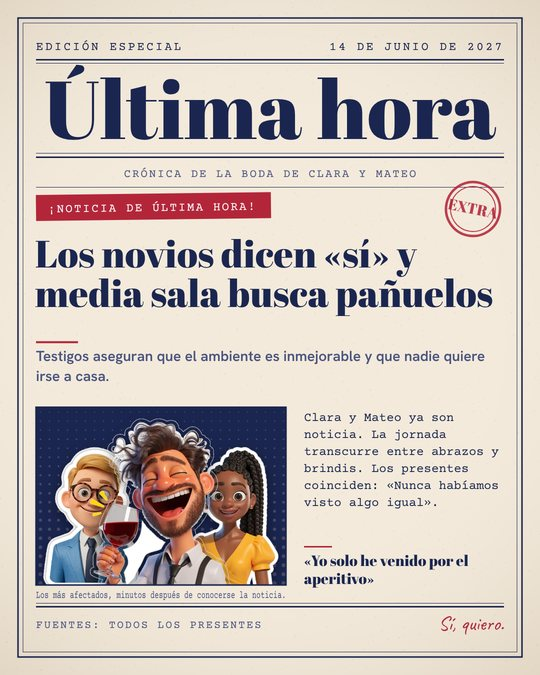
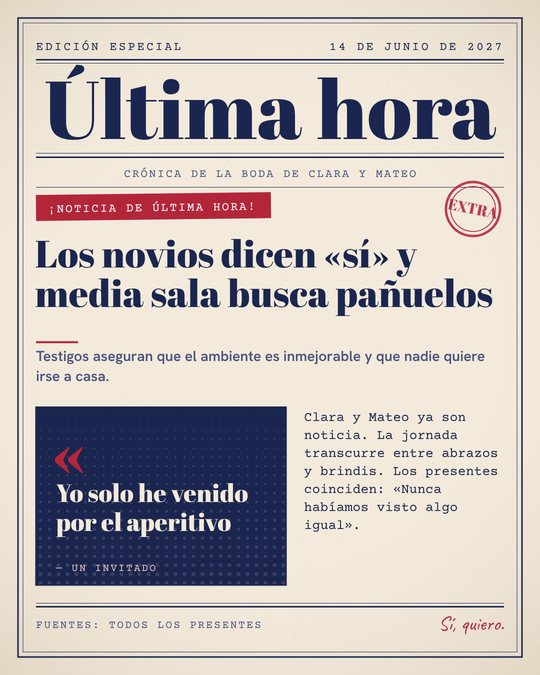
Última hora: foto subida por la pareja (dúo azul, local) y recuadro con cita; fuera los muñecos
Claude-Session: https://claude.ai/code/session_013gRG58urZyFX7HDixjDjsp

Changed region(s): [[0.0593, 0.6222, 0.5333, 0.9022], [0.563, 0.5911, 0.9185, 0.8711]]

diff --git a/guest-web/js/ultima-hora.js b/guest-web/js/ultima-hora.js
@@ -2,8 +2,7 @@
 (() => {
   const W = 1080, H = 1350;
   const C = { paper: '#f3eadb', paper2: '#e9dcc6', ink: '#1b2650', soft: '#4a5480', red: '#b3263a', blush: '#f0c4bc', deep: '#131b3b' };
-  const CAST = ['javi', 'lola', 'oscar', 'dani', 'carmen', 'marta', 'nuria', 'hugo'];
-  const IDEAS = [
+    const IDEAS = [
     'Los novios dicen «sí» y media sala busca pañuelos',
     'La tía Carmen ya baila y aún no han servido el aperitivo',
     'Hallan la barra libre: los invitados no se hacen responsables',
@@ -37,8 +36,7 @@
   }
 
   let variant = Math.floor(Math.random() * 9);
-  const imgs = {};
-  const load = (k) => imgs[k] || (imgs[k] = new Promise((ok) => { const m = new Image(); m.onload = () => ok(m); m.onerror = () => ok(null); m.src = `assets/quiz/${k}.webp`; }));
+  let photo = null;
   const fontsReady = () => document.fonts ? Promise.all(['110px "Abril Fatface"', '600 30px "Hanken Grotesk"', '400 26px "Courier Prime"', '400 30px "Caveat"'].map((x) => document.fonts.load(x).catch(() => 0))) : Promise.resolve();
 
   // Líneas por palabras; las palabras más largas que la caja se parten en seco.
@@ -60,7 +58,7 @@
   }
 
   async function draw() {
-    const [, a, b, c] = await Promise.all([fontsReady(), ...[0, 1, 2].map((i) => load(CAST[(variant + i * 3) % CAST.length]))]);
+    await fontsReady();
     const head = f.h.value.trim() || IDEAS[0];
     const names = f.n.value.trim(), date = f.f.value.trim();
     const sub = f.s.value.trim() || SUBS[variant % SUBS.length];
@@ -113,29 +111,43 @@
     g.fillStyle = C.red; g.fillRect(X, y - 14, 84, 4);
     g.fillStyle = C.soft; g.font = '600 29px "Hanken Grotesk"'; y = para(sub, X, y + 26, CW, subLH) + 6;
 
-    // foto + texto
-    const py = y + 6, ph = footerTop - py - 30, pw = 500;
-    g.save(); g.beginPath(); g.rect(X, py, pw, ph); g.clip();
-    g.fillStyle = C.ink; g.fillRect(X, py, pw, ph);
-    g.fillStyle = 'rgba(240,196,188,.22)';
-    for (let yy = py + 10; yy < py + ph; yy += 18) for (let xx = X + ((yy - py) / 18 % 2 ? 9 : 0); xx < X + pw; xx += 18) { const k = 1 + 3.2 * (yy - py) / ph; g.beginPath(); g.arc(xx, yy, k, 0, 7); g.fill(); }
-    const place = (m, cx, hgt) => { if (!m) return; const w = m.width * hgt / m.height; g.save(); g.shadowColor = 'rgba(0,0,0,.4)'; g.shadowBlur = 24; g.shadowOffsetY = 8; g.drawImage(m, cx - w / 2, py + ph - hgt + 8, w, hgt); g.restore(); };
-    place(a, X + pw * .22, Math.min(ph * .8, 330)); place(c, X + pw * .78, Math.min(ph * .8, 340)); place(b, X + pw * .5, Math.min(ph * .96, 400));
-    g.restore();
+    // foto (o recuadro con cita) + texto
+    const py = y + 6, ph = footerTop - py - 30, pw = 500, quote = QUOTES[variant % QUOTES.length];
+    if (photo) {
+      const o = document.createElement('canvas'); o.width = pw; o.height = ph; const og = o.getContext('2d');
+      const k = Math.max(pw / photo.width, ph / photo.height), dw = photo.width * k, dh = photo.height * k;
+      og.drawImage(photo, (pw - dw) / 2, (ph - dh) * .35, dw, dh); // encuadre algo alto: respeta las caras
+      const d = og.getImageData(0, 0, pw, ph), px = d.data;
+      const lo = [27, 38, 80], hi = [243, 234, 219];
+      for (let i = 0; i < px.length; i += 4) {
+        let l = (.299 * px[i] + .587 * px[i + 1] + .114 * px[i + 2]) / 255;
+        l = Math.min(1, Math.max(0, (l - .5) * 1.18 + .52));
+        px[i] = lo[0] + (hi[0] - lo[0]) * l; px[i + 1] = lo[1] + (hi[1] - lo[1]) * l; px[i + 2] = lo[2] + (hi[2] - lo[2]) * l; px[i + 3] = 255;
+      }
+      og.putImageData(d, 0, 0); g.drawImage(o, X, py);
+    } else {
+      g.fillStyle = C.ink; g.fillRect(X, py, pw, ph);
+      g.fillStyle = 'rgba(240,196,188,.16)';
+      for (let yy = py + 10; yy < py + ph; yy += 18) for (let xx = X + ((yy - py) / 18 % 2 ? 9 : 0); xx < X + pw; xx += 18) { g.beginPath(); g.arc(xx, yy, 1 + 3 * (yy - py) / ph, 0, 7); g.fill(); }
+      g.fillStyle = C.red; g.font = '400 150px "Abril Fatface"'; g.textAlign = 'left'; g.fillText('«', X + 30, py + 140);
+      g.fillStyle = C.paper; let qs = 50; const inner = pw - 80;
+      for (; qs >= 30; qs -= 2) { g.font = `400 ${qs}px "Abril Fatface"`; if (lines(quote.replace(/[«»]/g, ''), inner).length * qs * 1.15 <= ph - 190) break; }
+      para(quote.replace(/[«»]/g, ''), X + 40, py + 190, inner, qs * 1.15);
+      g.fillStyle = C.blush; g.font = '400 21px "Courier Prime"'; spaced('— UN INVITADO', X + 40, py + ph - 28, 3, 'left');
+    }
     g.strokeStyle = C.ink; g.lineWidth = 3; g.strokeRect(X, py, pw, ph);
     g.fillStyle = C.soft; g.font = '400 21px "Courier Prime"'; g.textAlign = 'left';
-    const capY = py + ph + 26; g.fillText(CAPS[variant % CAPS.length], X, capY, pw);
+    if (photo) g.fillText(CAPS[variant % CAPS.length], X, py + ph + 26, pw);
 
     // columna de texto
     const tx = X + pw + 36, tw = R - tx;
     g.fillStyle = C.ink;
     const body = (names ? `${names} ya son noticia. ` : '') + BODY[variant % BODY.length];
-    const room = ph - 120; let fs = 27, lh = 36, ls;
+    const room = photo ? ph - 120 : ph - 20; let fs = 27, lh = 36, ls;
     for (; fs >= 20; fs--) { g.font = `400 ${fs}px "Courier Prime"`; lh = Math.round(fs * 1.34); ls = lines(body, tw); if (ls.length * lh <= room) break; }
     const maxL = Math.max(1, Math.floor(room / lh)); const ty = py + 28;
     ls.slice(0, maxL).forEach((l, i) => { const cut = i === maxL - 1 && ls.length > maxL; g.fillText(cut ? l.replace(/[ ,;:.]*\S*$/, '') + '…' : l, tx, ty + i * lh); });
-    g.fillStyle = C.red; g.fillRect(tx, py + ph - 78, 56, 3);
-    g.fillStyle = C.ink; g.font = '400 30px "Abril Fatface"'; para(QUOTES[variant % QUOTES.length], tx, py + ph - 38, tw, 36);
+    if (photo) { g.fillStyle = C.red; g.fillRect(tx, py + ph - 78, 56, 3); g.fillStyle = C.ink; g.font = '400 30px "Abril Fatface"'; para(quote, tx, py + ph - 38, tw, 36); }
 
     // pie
     g.fillStyle = C.ink; g.fillRect(X, footerTop + 6, CW, 1); g.fillRect(X, footerTop + 12, CW, 3);
@@ -155,6 +167,15 @@
   f.addEventListener('input', upd); f.addEventListener('submit', (e) => e.preventDefault());
   f.querySelector('.uh-chips').append(...IDEAS.map((t) => { const b = document.createElement('button'); b.type = 'button'; b.className = 'uh-chip'; b.textContent = t; b.addEventListener('click', () => { f.h.value = t; upd(); }); return b; }));
   f.querySelector('.uh-photo').addEventListener('click', () => { variant++; redraw(); });
+  const file = f.querySelector('.uh-file'), clear = f.querySelector('.uh-clear');
+  file.addEventListener('change', () => {
+    const fl = file.files && file.files[0]; if (!fl) return;
+    const url = URL.createObjectURL(fl), im = new Image();
+    im.onload = () => { photo = im; clear.hidden = false; redraw(); };
+    im.onerror = () => { hint.textContent = 'No he podido abrir esa foto. Prueba con otra.'; URL.revokeObjectURL(url); };
+    im.src = url;
+  });
+  clear.addEventListener('click', () => { photo = null; file.value = ''; clear.hidden = true; redraw(); });
   upd();
 
   const blob = () => new Promise((ok) => cv.toBlob(ok, 'image/png'));

diff --git a/guest-web/ultima-hora.html b/guest-web/ultima-hora.html
@@ -10,7 +10,7 @@
   <link rel="stylesheet" href="css/fonts.css?v=44">
   <link rel="stylesheet" href="css/styles.css?v=45">
   <link rel="stylesheet" href="css/quiz.css?v=3">
-  <link rel="stylesheet" href="css/ultima-hora.css?v=1">
+  <link rel="stylesheet" href="css/ultima-hora.css?v=2">
 </head>
 <body class="uh-body">
 <main class="uh">
@@ -39,6 +39,14 @@
         <span class="uh-label">Subtitular <i>(opcional)</i></span>
         <input name="s" type="text" maxlength="120" placeholder="Si lo dejas vacío, lo escribimos nosotros">
       </label>
+      <div class="uh-field">
+        <span class="uh-label">Tu foto <i>(opcional)</i></span>
+        <div class="uh-photo-row">
+          <label class="quiz-btn quiz-btn--line uh-pick">Elegir foto<input class="uh-file" type="file" accept="image/*" hidden></label>
+          <button class="uh-clear" type="button" hidden>Quitar foto</button>
+        </div>
+        <span class="uh-note">Se queda en tu móvil: no se sube a ningún sitio.</span>
+      </div>
       <div class="uh-row">
         <label class="uh-field"><span class="uh-label">Los novios</span><input name="n" type="text" maxlength="44" placeholder="Clara y Mateo"></label>
         <label class="uh-field"><span class="uh-label">Fecha</span><input name="f" type="text" maxlength="32" placeholder="14 de junio de 2027"></label>
@@ -46,12 +54,12 @@
       <div class="uh-actions">
         <button class="quiz-btn uh-dl" type="button">Descargar portada</button>
         <button class="quiz-btn quiz-btn--line uh-share" type="button">Compartir</button>
-        <button class="quiz-btn quiz-btn--line uh-photo" type="button">Otra foto</button>
+        <button class="quiz-btn quiz-btn--line uh-photo" type="button">Otro texto</button>
       </div>
       <p class="quiz-hint" id="uh-hint" role="status"></p>
     </form>
   </div>
 </main>
-<script src="js/ultima-hora.js?v=1"></script>
+<script src="js/ultima-hora.js?v=2"></script>
 </body>
 </html>

diff --git a/guest-web/css/ultima-hora.css b/guest-web/css/ultima-hora.css
@@ -38,3 +38,8 @@
 @media (hover: hover) { .uh-teaser-card:hover img { transform: rotate(0deg) translateY(-4px); } }
 @media (prefers-reduced-motion: reduce) { .uh-teaser-card img { transition: none; } }
 .uh-teaser { background: var(--paper); }
+
+.uh-photo-row { display: flex; align-items: center; gap: .8rem; flex-wrap: wrap; }
+.uh-pick { display: inline-flex; align-items: center; cursor: pointer; }
+.uh-clear { background: none; border: 0; color: var(--ink-soft); font: 500 .9375rem var(--text); text-decoration: underline; text-underline-offset: .2em; cursor: pointer; min-height: 44px; padding: 0 .4rem; }
+.uh-note { font-size: .8125rem; color: var(--ink-soft); }

diff --git a/guest-web/index.html b/guest-web/index.html
@@ -28,7 +28,7 @@
   <link rel="stylesheet" href="css/fonts.css?v=44">
   <link rel="stylesheet" href="css/styles.css?v=45">
   <link rel="stylesheet" href="css/quiz.css?v=3">
-  <link rel="stylesheet" href="css/ultima-hora.css?v=1">
+  <link rel="stylesheet" href="css/ultima-hora.css?v=2">
   <!-- Estadísticas de visitas sin cookies: Cloudflare Web Analytics las añade al publicar -->
   <script src="js/config.js?v=48" defer></script>
   <script src="js/catalog.js?v=41" defer></script>
